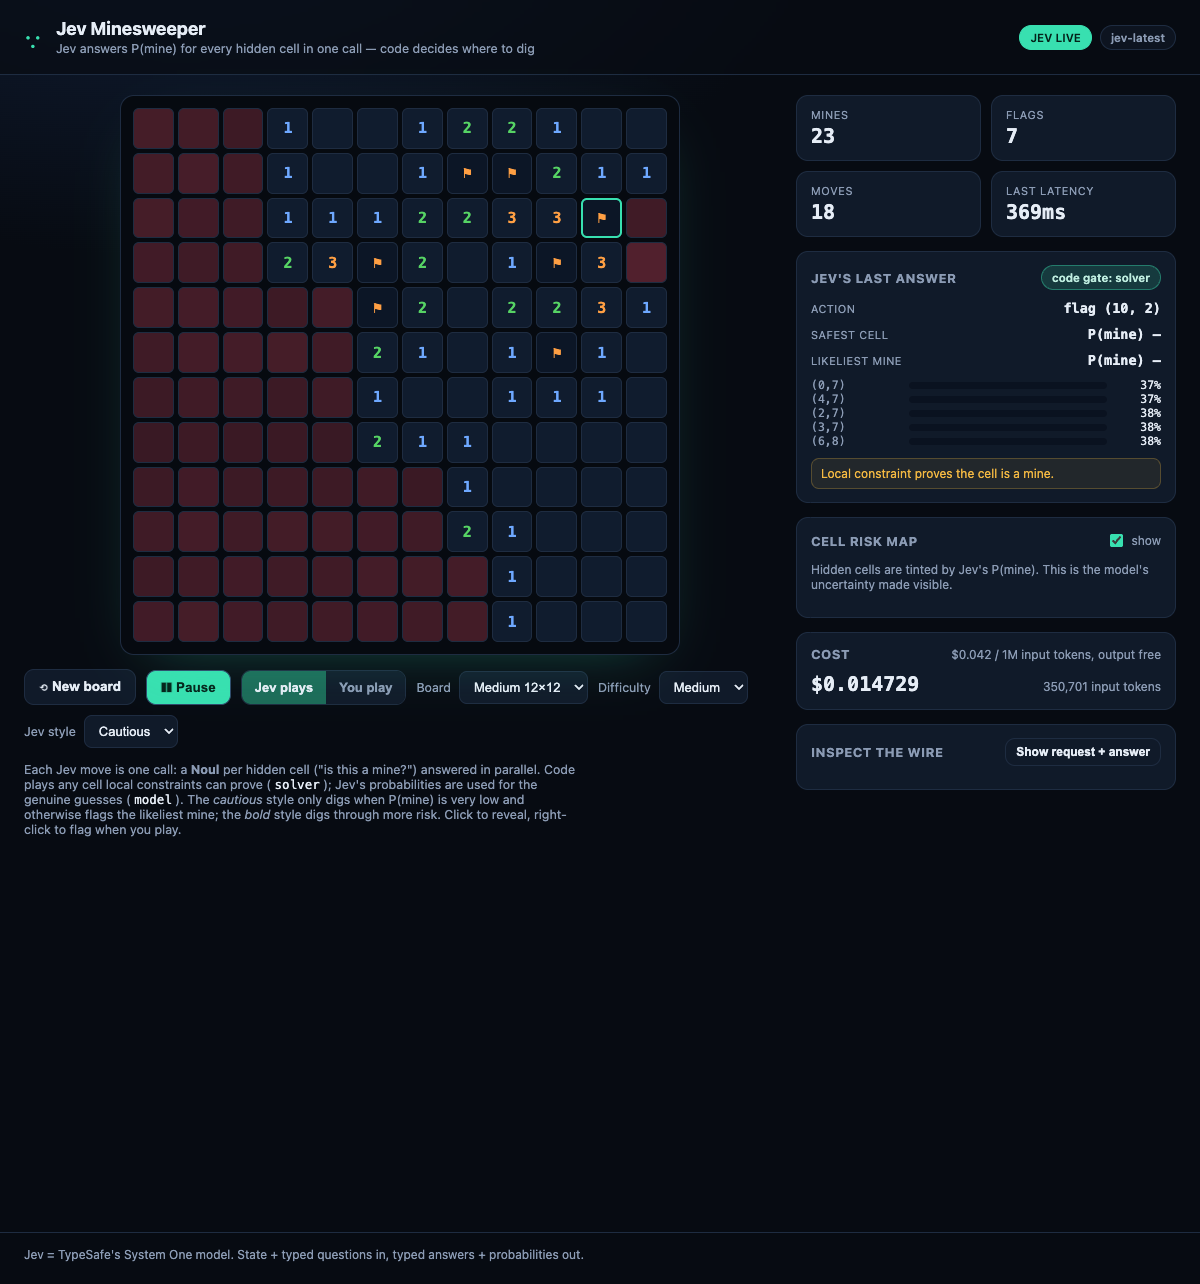
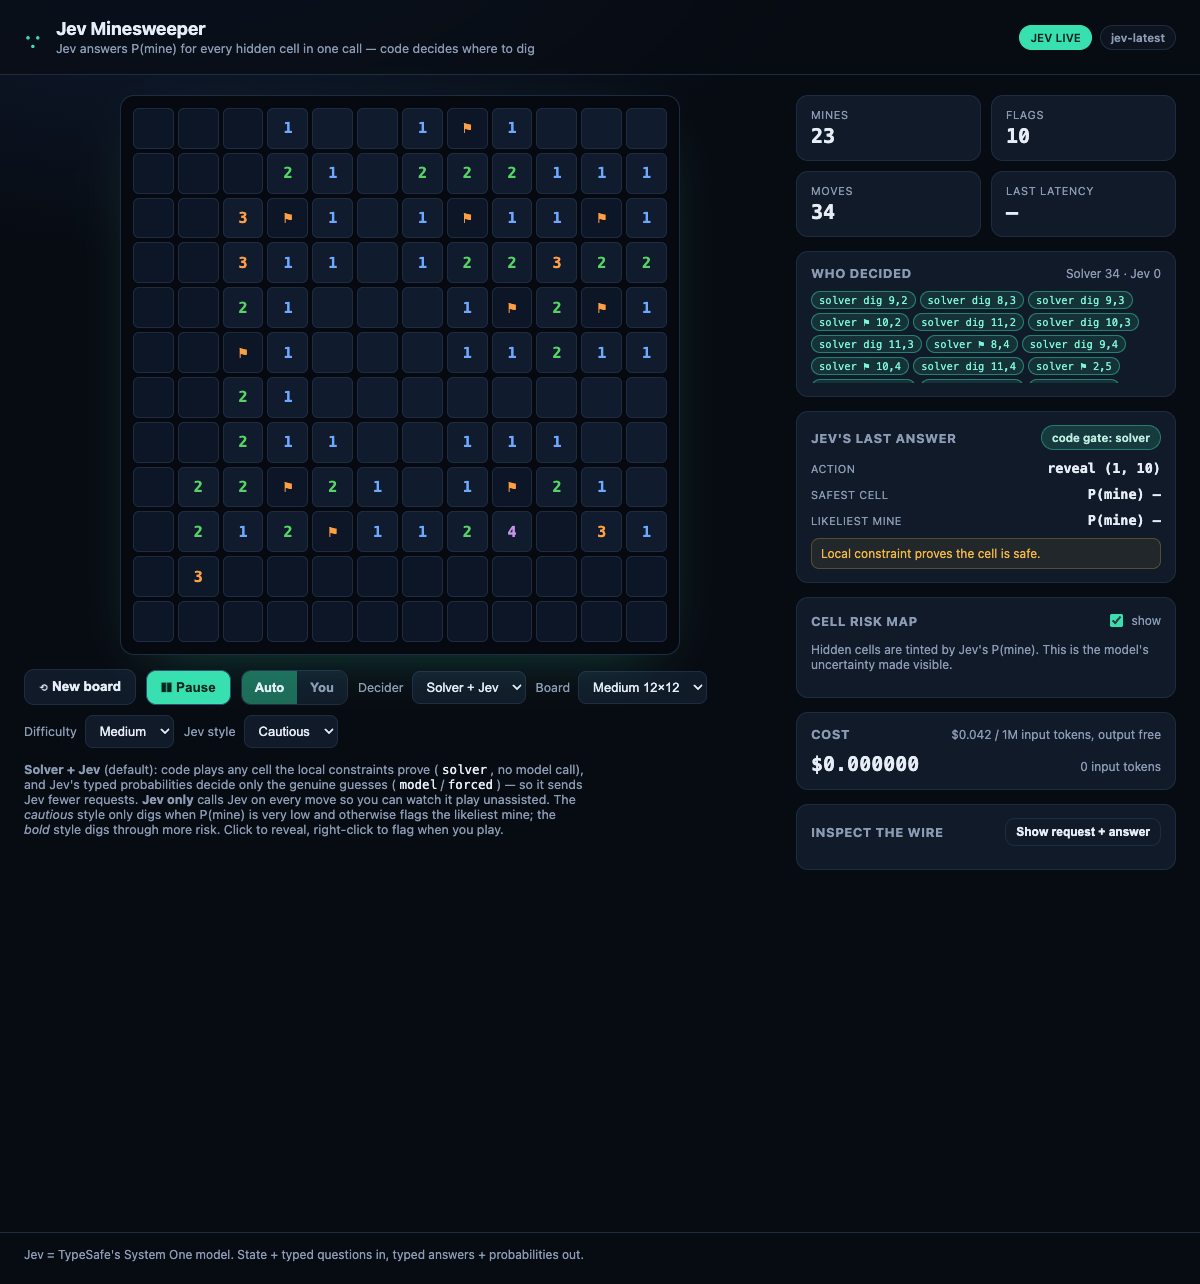
perf+ux: 8x fewer tokens; make who-decides explicit; Jev-only mode
- Questions are now a single short line per cell and only the frontier
  cells are asked; the board is sent once in the shared state. A guessing
  move fell from ~6,200 to ~1,100 input tokens.
- Solver+Jev (default) skips the Jev call entirely when deduction decides,
  so those moves cost nothing.
- New Decider selector (Solver+Jev vs Jev only) and a Who-decided panel
  that tags every move and keeps a tally, so it is clear whether the
  solver or the model actually played.

diff --git a/public/app.js b/public/app.js
@@ -19,12 +19,15 @@ const $ = (id) => document.getElementById(id)
 const state = {
 	game: null,
 	mode: 'jev', // 'jev' | 'you'
+	decider: 'hybrid', // 'hybrid' | 'jev'
 	persona: 'cautious',
 	running: false,
 	loopToken: 0,
 	probabilities: [],
 	lastPayload: null,
 	moves: 0,
+	tally: { solver: 0, jev: 0, forced: 0, fallback: 0 },
+	moveSources: [],
 	usage: { input_tokens: 0, output_tokens: 0 },
 	pricePerMillionInputUsd: 0.042,
 	latencyMs: 0,
@@ -53,6 +56,8 @@ function newGame() {
 	state.probabilities = []
 	state.lastPayload = null
 	state.moves = 0
+	state.tally = { solver: 0, jev: 0, forced: 0, fallback: 0, you: 0 }
+	state.moveSources = []
 	state.usage = { input_tokens: 0, output_tokens: 0 }
 	state.latencyMs = 0
 	buildGrid()
@@ -60,6 +65,7 @@ function newGame() {
 	hideOverlay()
 	render()
 	updateStats()
+	renderControl()
 }
 
 function buildGrid() {
@@ -129,14 +135,17 @@ function onCellClick(x, y) {
 	if (state.mode !== 'you' || state.gameOver) return
 	if (isFlagged(state.game, x, y) || isRevealed(state.game, x, y)) return
 	reveal(state.game, x, y)
+	recordHuman('reveal', x, y)
 	afterMove()
 }
 
 function onCellFlag(x, y) {
 	if (state.mode !== 'you' || state.gameOver) return
 	if (isRevealed(state.game, x, y)) return
+	const action = isFlagged(state.game, x, y) ? 'unflag' : 'flag'
 	if (isFlagged(state.game, x, y)) unflag(state.game, x, y)
 	else flag(state.game, x, y)
+	recordHuman(action, x, y)
 	afterMove()
 }
 
@@ -153,6 +162,57 @@ function afterMove() {
 	if (state.game.won || state.game.lost) finish()
 }
 
+const SOURCE_LABELS = { solver: 'solver', jev: 'Jev', forced: 'forced', fallback: 'fallback', you: 'you' }
+
+function recordMove(data) {
+	const decision = data.decision ?? {}
+	const source =
+		data.mode === 'solver'
+			? 'solver'
+			: decision.gate === 'model'
+				? 'jev'
+				: decision.gate === 'forced'
+					? 'forced'
+					: decision.gate === 'fallback'
+						? 'fallback'
+						: 'jev'
+	pushSource(source, decision.action, decision.x, decision.y)
+}
+
+function recordHuman(action, x, y) {
+	pushSource('you', action, x, y)
+}
+
+function pushSource(source, action, x, y) {
+	state.tally[source] = (state.tally[source] ?? 0) + 1
+	state.moveSources.push({ source, action, x, y })
+	if (state.moveSources.length > 24) state.moveSources.shift()
+	renderControl()
+}
+
+function renderControl() {
+	const tally = $('control-tally')
+	if (tally) {
+		const parts = [`Solver ${state.tally.solver}`, `Jev ${state.tally.jev}`]
+		if (state.tally.forced) parts.push(`forced ${state.tally.forced}`)
+		if (state.tally.fallback) parts.push(`fallback ${state.tally.fallback}`)
+		tally.textContent = parts.join(' · ')
+	}
+	const feed = $('control-feed')
+	if (!feed) return
+	if (state.moveSources.length === 0) {
+		feed.innerHTML = '<span class="muted">No moves yet.</span>'
+		return
+	}
+	feed.innerHTML = state.moveSources
+		.map((m) => {
+			const who = SOURCE_LABELS[m.source] ?? m.source
+			const verb = m.action === 'flag' ? '⚑' : 'dig'
+			return `<span class="chip chip-${m.source}">${escapeHtml(who)} ${verb} ${m.x ?? '?'},${m.y ?? '?'}</span>`
+		})
+		.join('')
+}
+
 async function jevStep() {
 	if (state.gameOver) return
 	const token = state.loopToken
@@ -160,7 +220,7 @@ async function jevStep() {
 		const response = await fetch('/api/decide', {
 			method: 'POST',
 			headers: { 'Content-Type': 'application/json' },
-			body: JSON.stringify({ state: serialize(state.game), persona: state.persona }),
+			body: JSON.stringify({ state: serialize(state.game), persona: state.persona, decider: state.decider }),
 		})
 		const data = await response.json()
 		if (token !== state.loopToken) return
@@ -177,6 +237,7 @@ async function jevStep() {
 			state.usage.output_tokens += data.usage.output_tokens ?? 0
 		}
 		renderAnswers(data)
+		recordMove(data)
 		applyDecision(data.decision)
 		afterMove()
 		if (state.gameOver || !state.running) return
@@ -338,6 +399,9 @@ function bindControls() {
 	$('mode-you').addEventListener('click', () => setMode('you'))
 	$('persona').addEventListener('change', (event) => {
 		state.persona = event.target.value
+	})
+	$('decider').addEventListener('change', (event) => {
+		state.decider = event.target.value
 	})
 	$('heat').addEventListener('change', (event) => {
 		state.showHeat = event.target.checked

diff --git a/public/index.html b/public/index.html
@@ -41,9 +41,16 @@
 					<button id="new" class="btn">⟲ New board</button>
 					<button id="step" class="btn btn-primary">▶ Jev digs</button>
 					<div class="segmented" role="group" aria-label="Driver">
-						<button id="mode-jev" class="seg active">Jev plays</button>
-						<button id="mode-you" class="seg">You play</button>
+						<button id="mode-jev" class="seg active">Auto</button>
+						<button id="mode-you" class="seg">You</button>
 					</div>
+					<label class="select">
+						Decider
+						<select id="decider">
+							<option value="hybrid">Solver + Jev</option>
+							<option value="jev">Jev only</option>
+						</select>
+					</label>
 					<label class="select">
 						Board
 						<select id="size"></select>
@@ -61,15 +68,16 @@
 					</label>
 				</div>
 				<p class="hint">
-					Each Jev move is one call: a
-					<strong>Noul</strong>
-					per hidden cell ("is this a mine?") answered in parallel. Code plays any cell local constraints can
-					prove (
+					<strong>Solver + Jev</strong>
+					(default): code plays any cell the local constraints prove (
 					<span class="mono">solver</span>
-					); Jev's probabilities are used for the genuine guesses (
+					, no model call), and Jev's typed probabilities decide only the genuine guesses (
 					<span class="mono">model</span>
-					). The browser asks Jev every move so the risk map stays current; the eval harness skips the call
-					when deduction already decides. The
+					/
+					<span class="mono">forced</span>
+					) — so it sends Jev fewer requests.
+					<strong>Jev only</strong>
+					calls Jev on every move so you can watch it play unassisted. The
 					<em>cautious</em>
 					style only digs when P(mine) is very low and otherwise flags the likeliest mine; the
 					<em>bold</em>
@@ -96,6 +104,14 @@
 						<span id="stat-latency" class="stat-value">—</span>
 					</div>
 				</div>
+
+				<section class="card">
+					<header class="card-head">
+						<h3>Who decided</h3>
+						<span id="control-tally" class="muted">Solver 0 · Jev 0</span>
+					</header>
+					<div id="control-feed" class="feed"><span class="muted">No moves yet.</span></div>
+				</section>
 
 				<section class="card">
 					<header class="card-head">

diff --git a/public/styles.css b/public/styles.css
@@ -485,6 +485,53 @@ h1 {
 	accent-color: var(--accent);
 }
 
+.feed {
+	display: flex;
+	flex-wrap: wrap;
+	gap: 4px;
+	max-height: 92px;
+	overflow: hidden;
+}
+
+.chip {
+	font-family: var(--mono);
+	font-size: 10.5px;
+	padding: 2px 7px;
+	border-radius: 999px;
+	border: 1px solid var(--line);
+	white-space: nowrap;
+}
+
+.chip-solver {
+	border-color: rgba(56, 224, 176, 0.45);
+	background: rgba(56, 224, 176, 0.12);
+	color: #7ff7d6;
+}
+
+.chip-jev {
+	border-color: rgba(120, 180, 255, 0.5);
+	background: rgba(120, 180, 255, 0.12);
+	color: #a9ccff;
+}
+
+.chip-forced {
+	border-color: rgba(244, 185, 66, 0.5);
+	background: rgba(244, 185, 66, 0.12);
+	color: #ffd98a;
+}
+
+.chip-fallback {
+	border-color: rgba(255, 84, 112, 0.5);
+	background: rgba(255, 84, 112, 0.12);
+	color: #ff9fb0;
+}
+
+.chip-you {
+	border-color: rgba(200, 200, 200, 0.4);
+	background: rgba(200, 200, 200, 0.08);
+	color: #cfd8e6;
+}
+
 .cost {
 	display: flex;
 	align-items: baseline;

diff --git a/README.md b/README.md
@@ -22,8 +22,9 @@ board (revealed numbers, flags) ──► Jev: one Noul per hidden cell = P(mine
 
 - **Calibrated probability as the output.** The reliability of `P(mine)` is measurable: the eval
   harness bins predictions against outcomes and prints a reliability table.
-- **High fan-out in one call.** A 9×9 board needs up to 81 independent questions; adding them
-  barely changes latency because they are evaluated in parallel.
+- **One call, many typed questions.** Every informative cell is a separate `Noul`, all evaluated in
+  parallel in a single request, so adding questions barely changes latency. Only the frontier cells
+  are asked, and the board is sent once, which keeps the payload small.
 - **The model judges, code decides.** The `cautious` and `bold` personas are code thresholds over
   Jev's probabilities; the model never chooses the action itself.
 
@@ -60,13 +61,31 @@ Large boards would need up to 256 questions per move, so the client asks at most
 `MAX_QUESTIONS_PER_CALL` (120 in `src/jev.mjs`), most-constrained cells first. Raise or lower it
 there to trade cost/latency against coverage.
 
-### How a move is chosen
+### Who decides (and what it costs)
 
-1. If local constraints prove a safe cell or a mine, code plays it (`solver`) — no guessing.
+The **Decider** selector makes this explicit:
+
+- **Solver + Jev** (default): code plays anything the local constraints prove (`solver`) and does
+  **not call Jev at all** for those moves; Jev's probabilities decide only the genuine guesses
+  (`model` / `forced`). On a lucky board that means zero tokens.
+- **Jev only**: Jev is called on every single move so you can watch it play unassisted.
+
+The **Who decided** panel tags every move (`solver` / `Jev` / `forced` / `you`) and keeps a running
+tally, so it is always clear whether the solver or the model chose.
+
+1. Solver-first: if local constraints prove a safe cell or a mine, code plays it — no call.
 2. Otherwise Jev's `Noul` probabilities decide (`model` / `forced`), filtered by the persona
    thresholds.
 
 Only step 2 depends on the model, which is exactly where probabilities add value over arithmetic.
+
+### Token use
+
+The board (with its numbers) lives once in the shared `state`, so each question is a single short
+line rather than a repeated neighbour array, and only the informative **frontier** cells (those
+touching a revealed number) are asked. A 12×12 mid-game move that needs a guess costs ~1,100 input
+tokens (~$0.000047); the same move used to cost ~6,200 before this. Moves the solver decides cost
+nothing.
 
 ## Evaluate Jev
 
